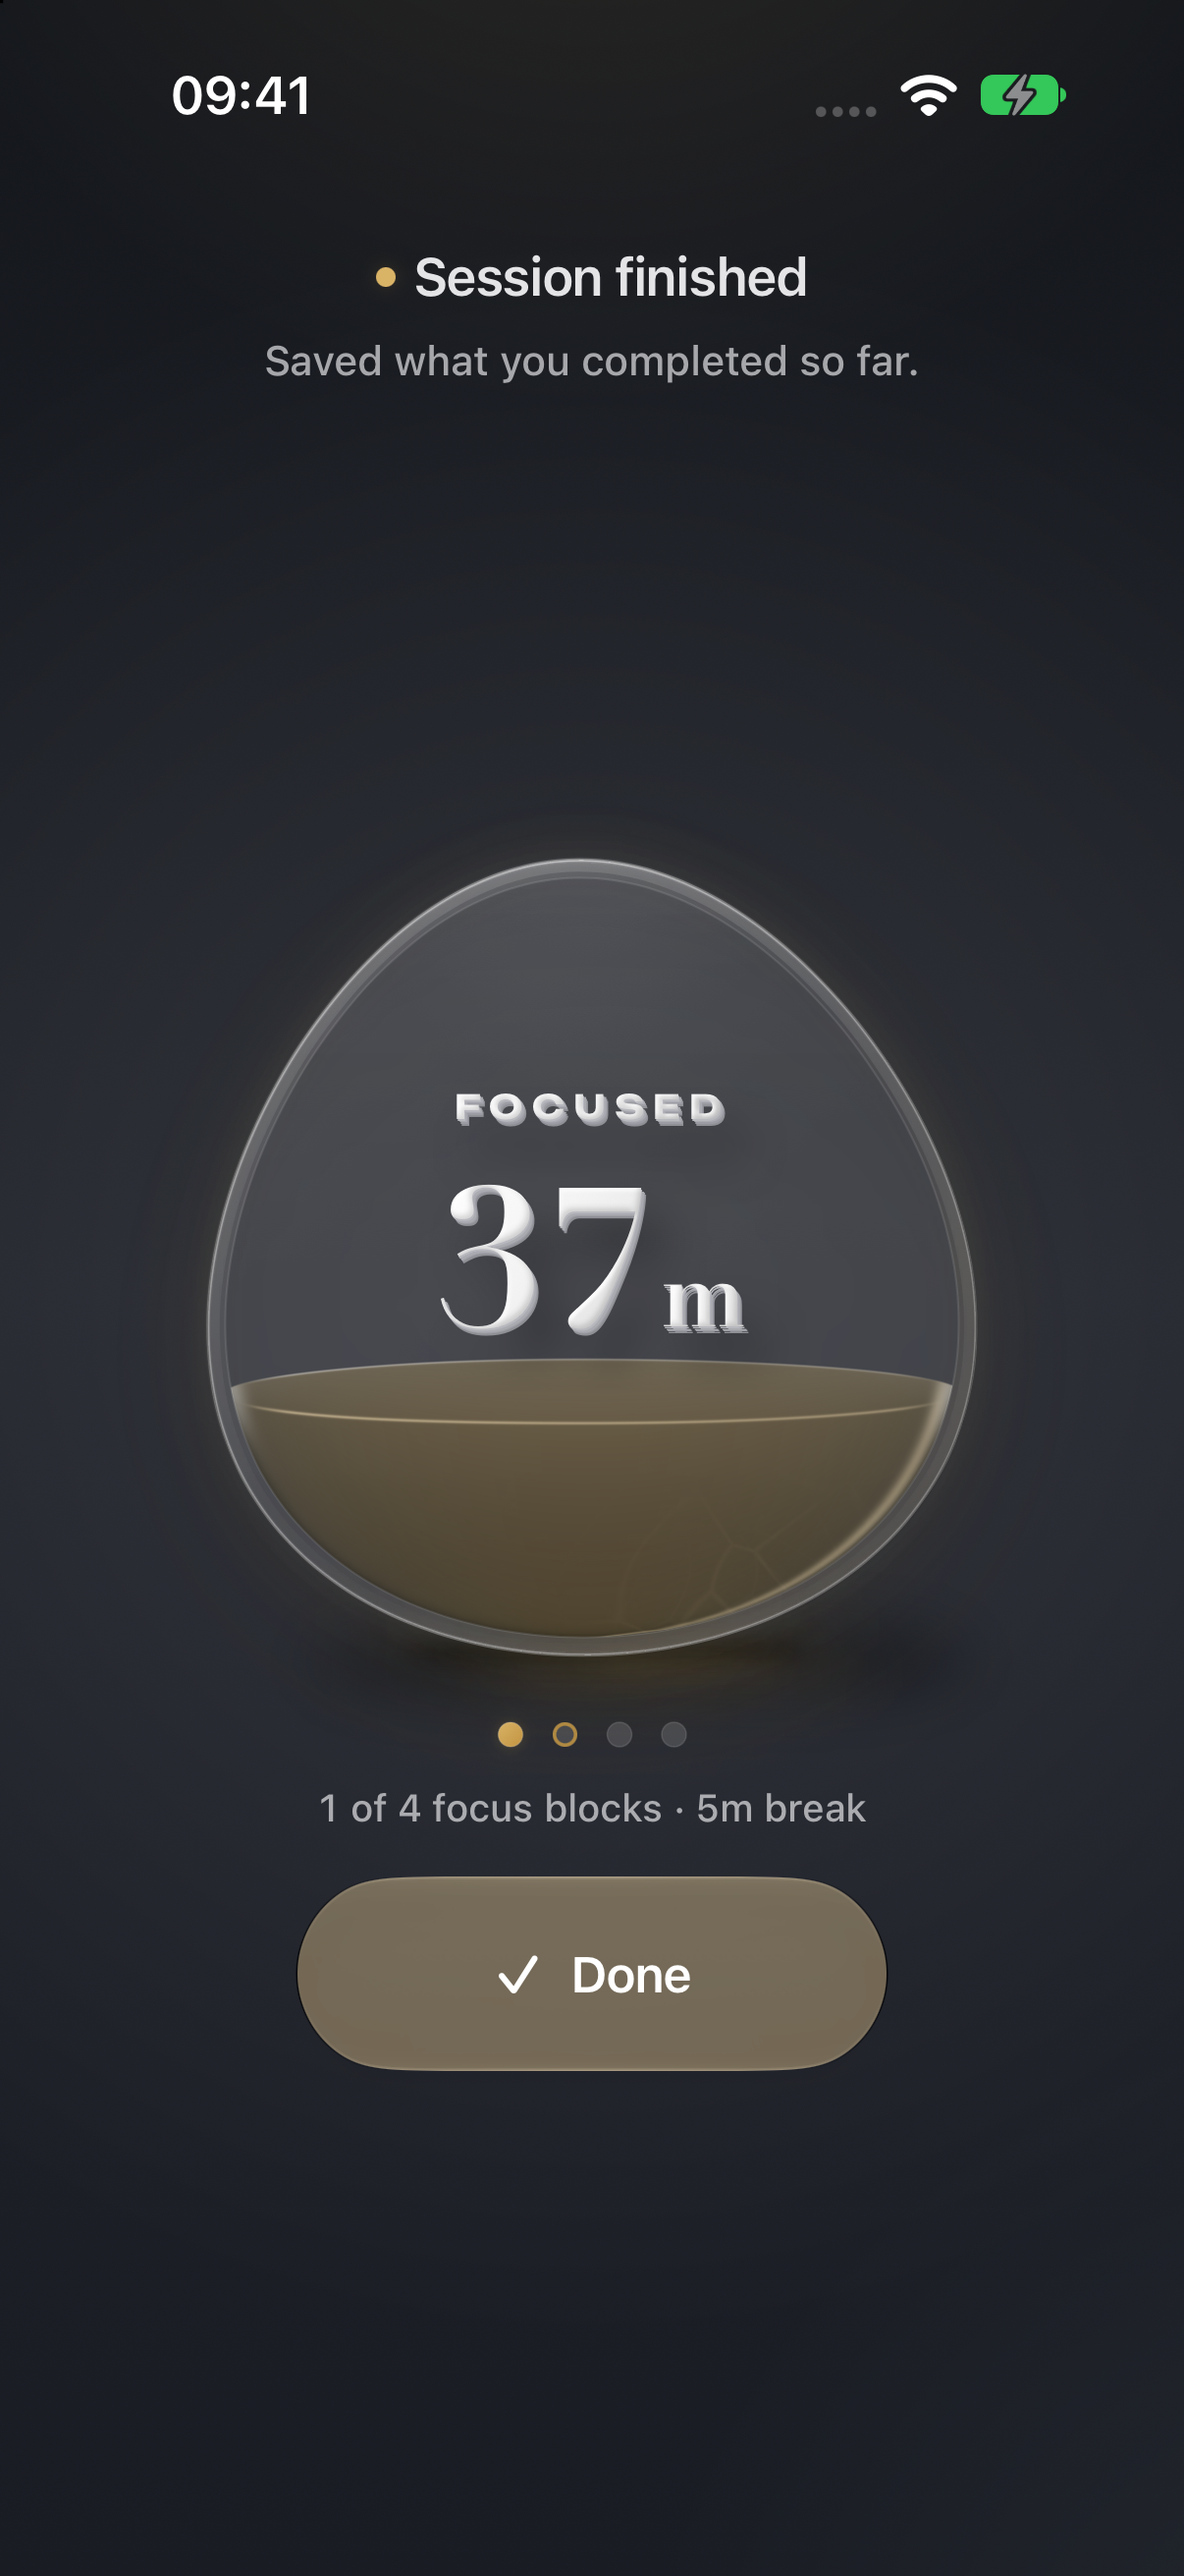
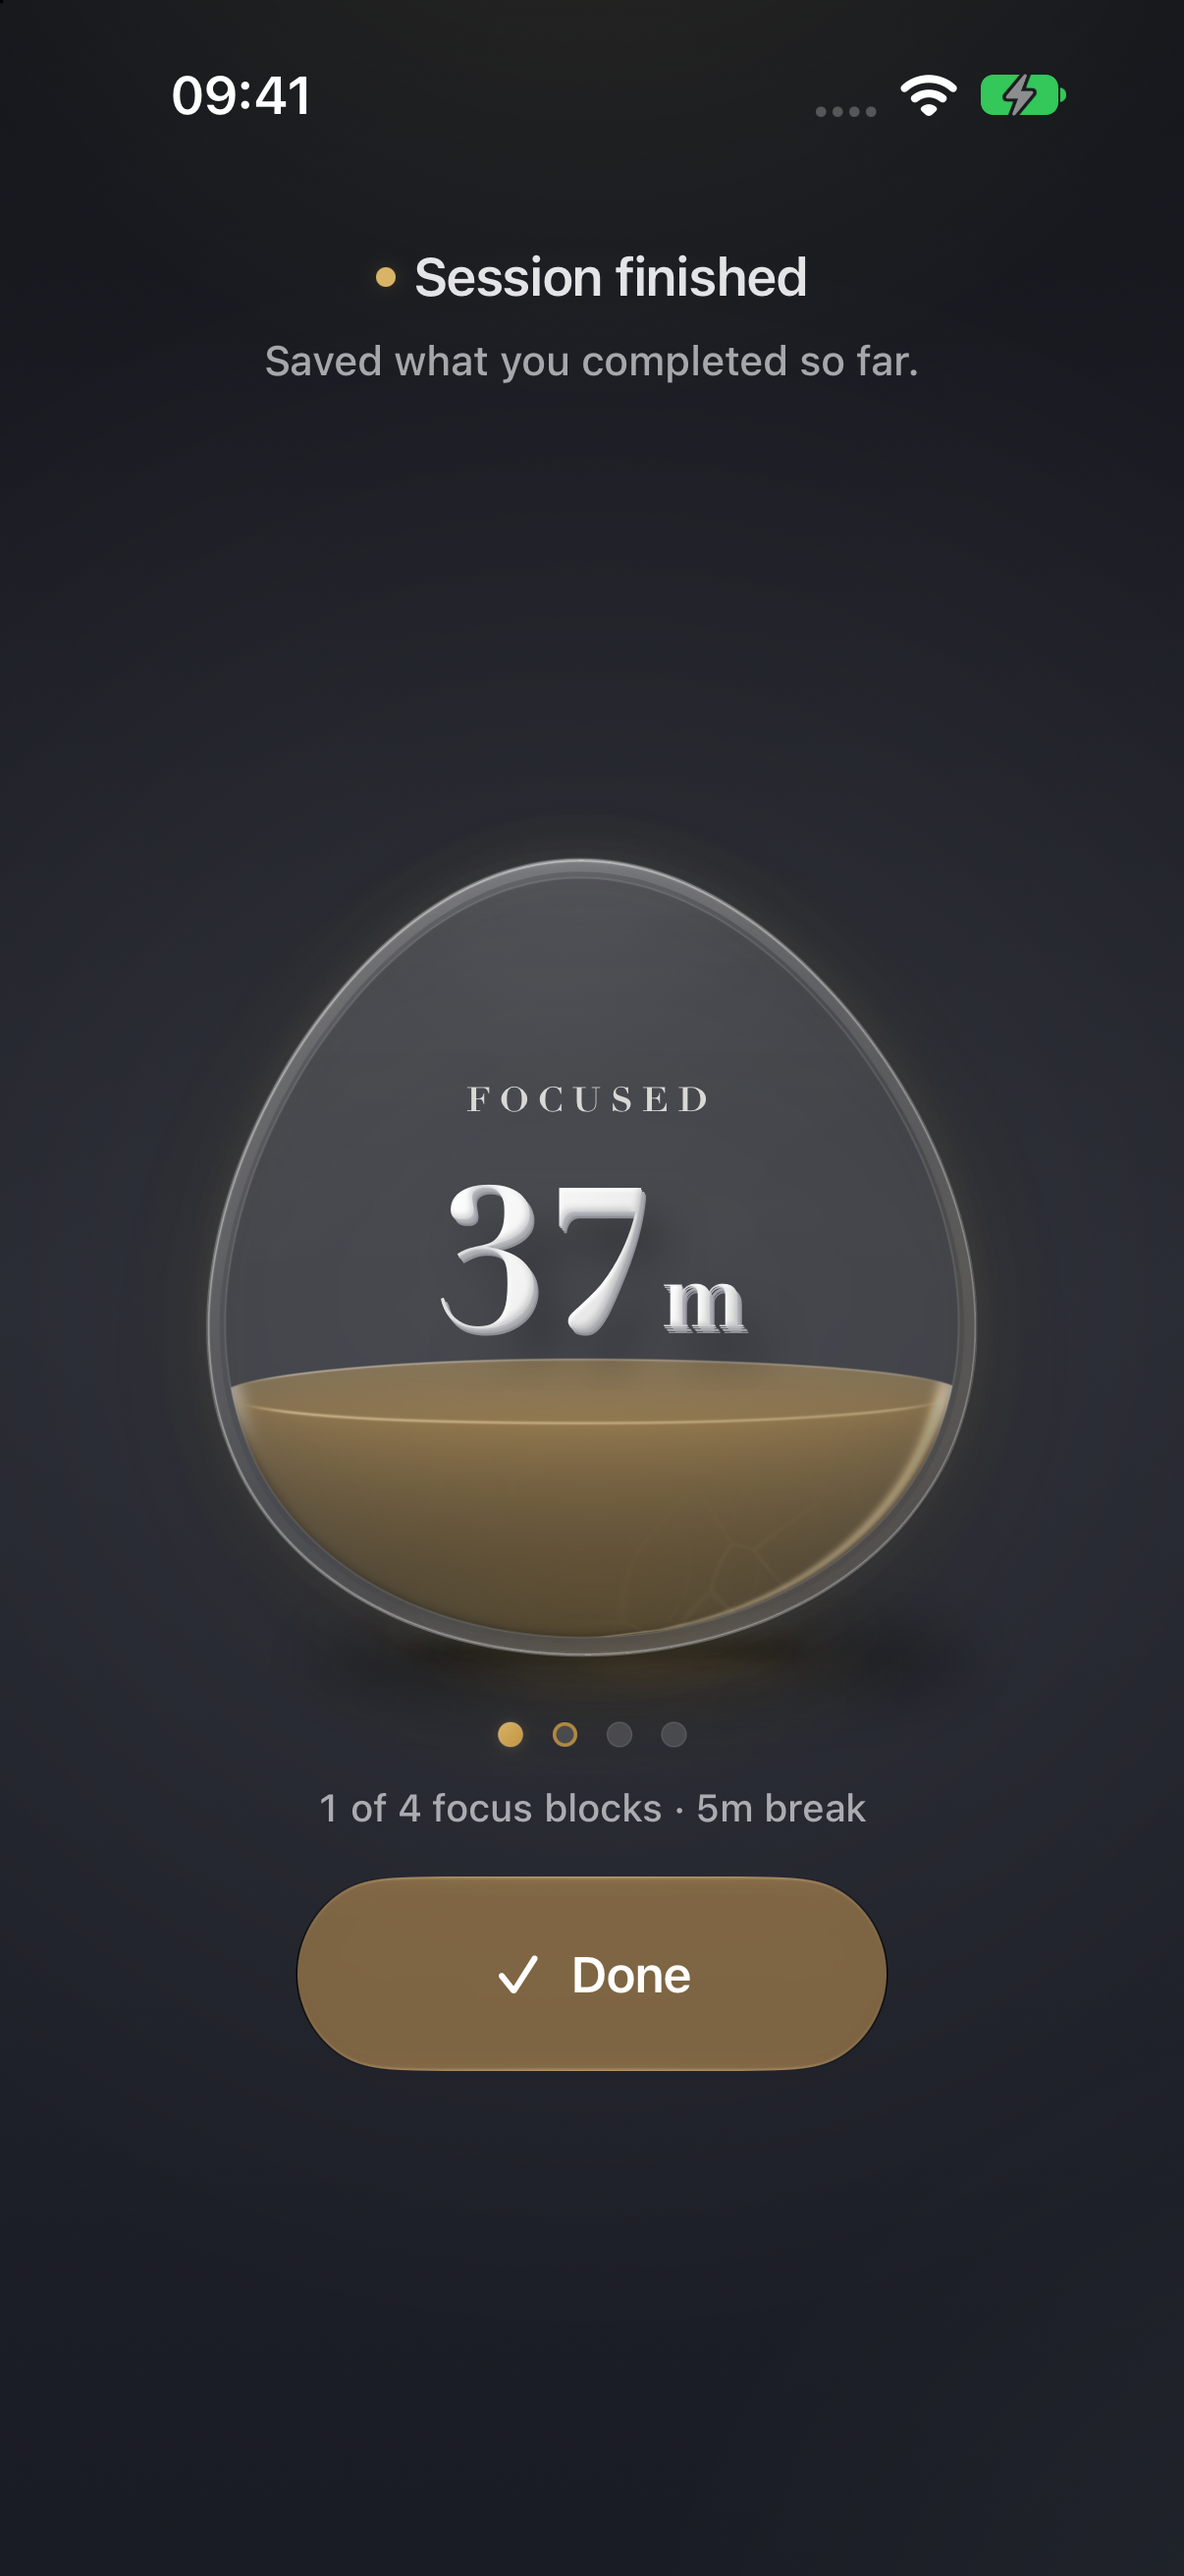
docs: refresh screenshots for the Focus and Settings details
The finished Focus captures show FOCUSED in Didot small caps, dark
Focus shows the lit liquid and the richer Resume wash, and the Settings
and picker captures show the gray switches. The empty Productivity
captures show the Daily Focus Avg dash, which their caption now
mentions. The source revision now points at b2b141e; the Focus button
motion and the Appearance menu fix don't change still captures. The
other captures were pixel-identical and stay as they are.

Changed region(s): [[0.1841, 0.5252, 0.7977, 0.587], [0.3682, 0.4016, 0.6136, 0.4634]]

diff --git a/docs/screenshots/README.md b/docs/screenshots/README.md
@@ -8,7 +8,7 @@ The session and history data is generated for these previews. The [README](../..
 
 | Detail | Value |
 | --- | --- |
-| App source revision | `3b7603b14c92` |
+| App source revision | `b2b141e1472d` |
 | Build | Debug, `VibePomodoro` iOS scheme |
 | Toolchain | Xcode 27.2, build 27B52 |
 | Device | iPhone 18 Pro |
@@ -68,9 +68,9 @@ The selected-day image shows 18 November in Week. Rhythm reads 1h 30m Focus, 30m
 
 | Light | Dark |
 | :---: | :---: |
-| <img src="productivity-empty-light.png" alt="Light empty-history page with zero metrics and no generated bars" width="230"> | <img src="productivity-empty-dark.png" alt="Dark empty-history page with zero metrics and no Sessions card" width="230"> |
+| <img src="productivity-empty-light.png" alt="Light empty-history page with zero totals and no generated bars" width="230"> | <img src="productivity-empty-dark.png" alt="Dark empty-history page with zero totals and no Sessions card" width="230"> |
 
-These launches reset the preview suite and load no history fixture. Totals and Rhythm values are zero. The Week chart keeps its empty tracks, and the Sessions card is omitted. The note explains that a session appears here once it ends.
+These launches reset the preview suite and load no history fixture. Totals and Rhythm values are zero. Daily Focus Avg shows a dash, since no day has focus to average. The Week chart keeps its empty tracks, and the Sessions card is omitted. The note explains that a session appears here once it ends.
 
 ## Settings
 
